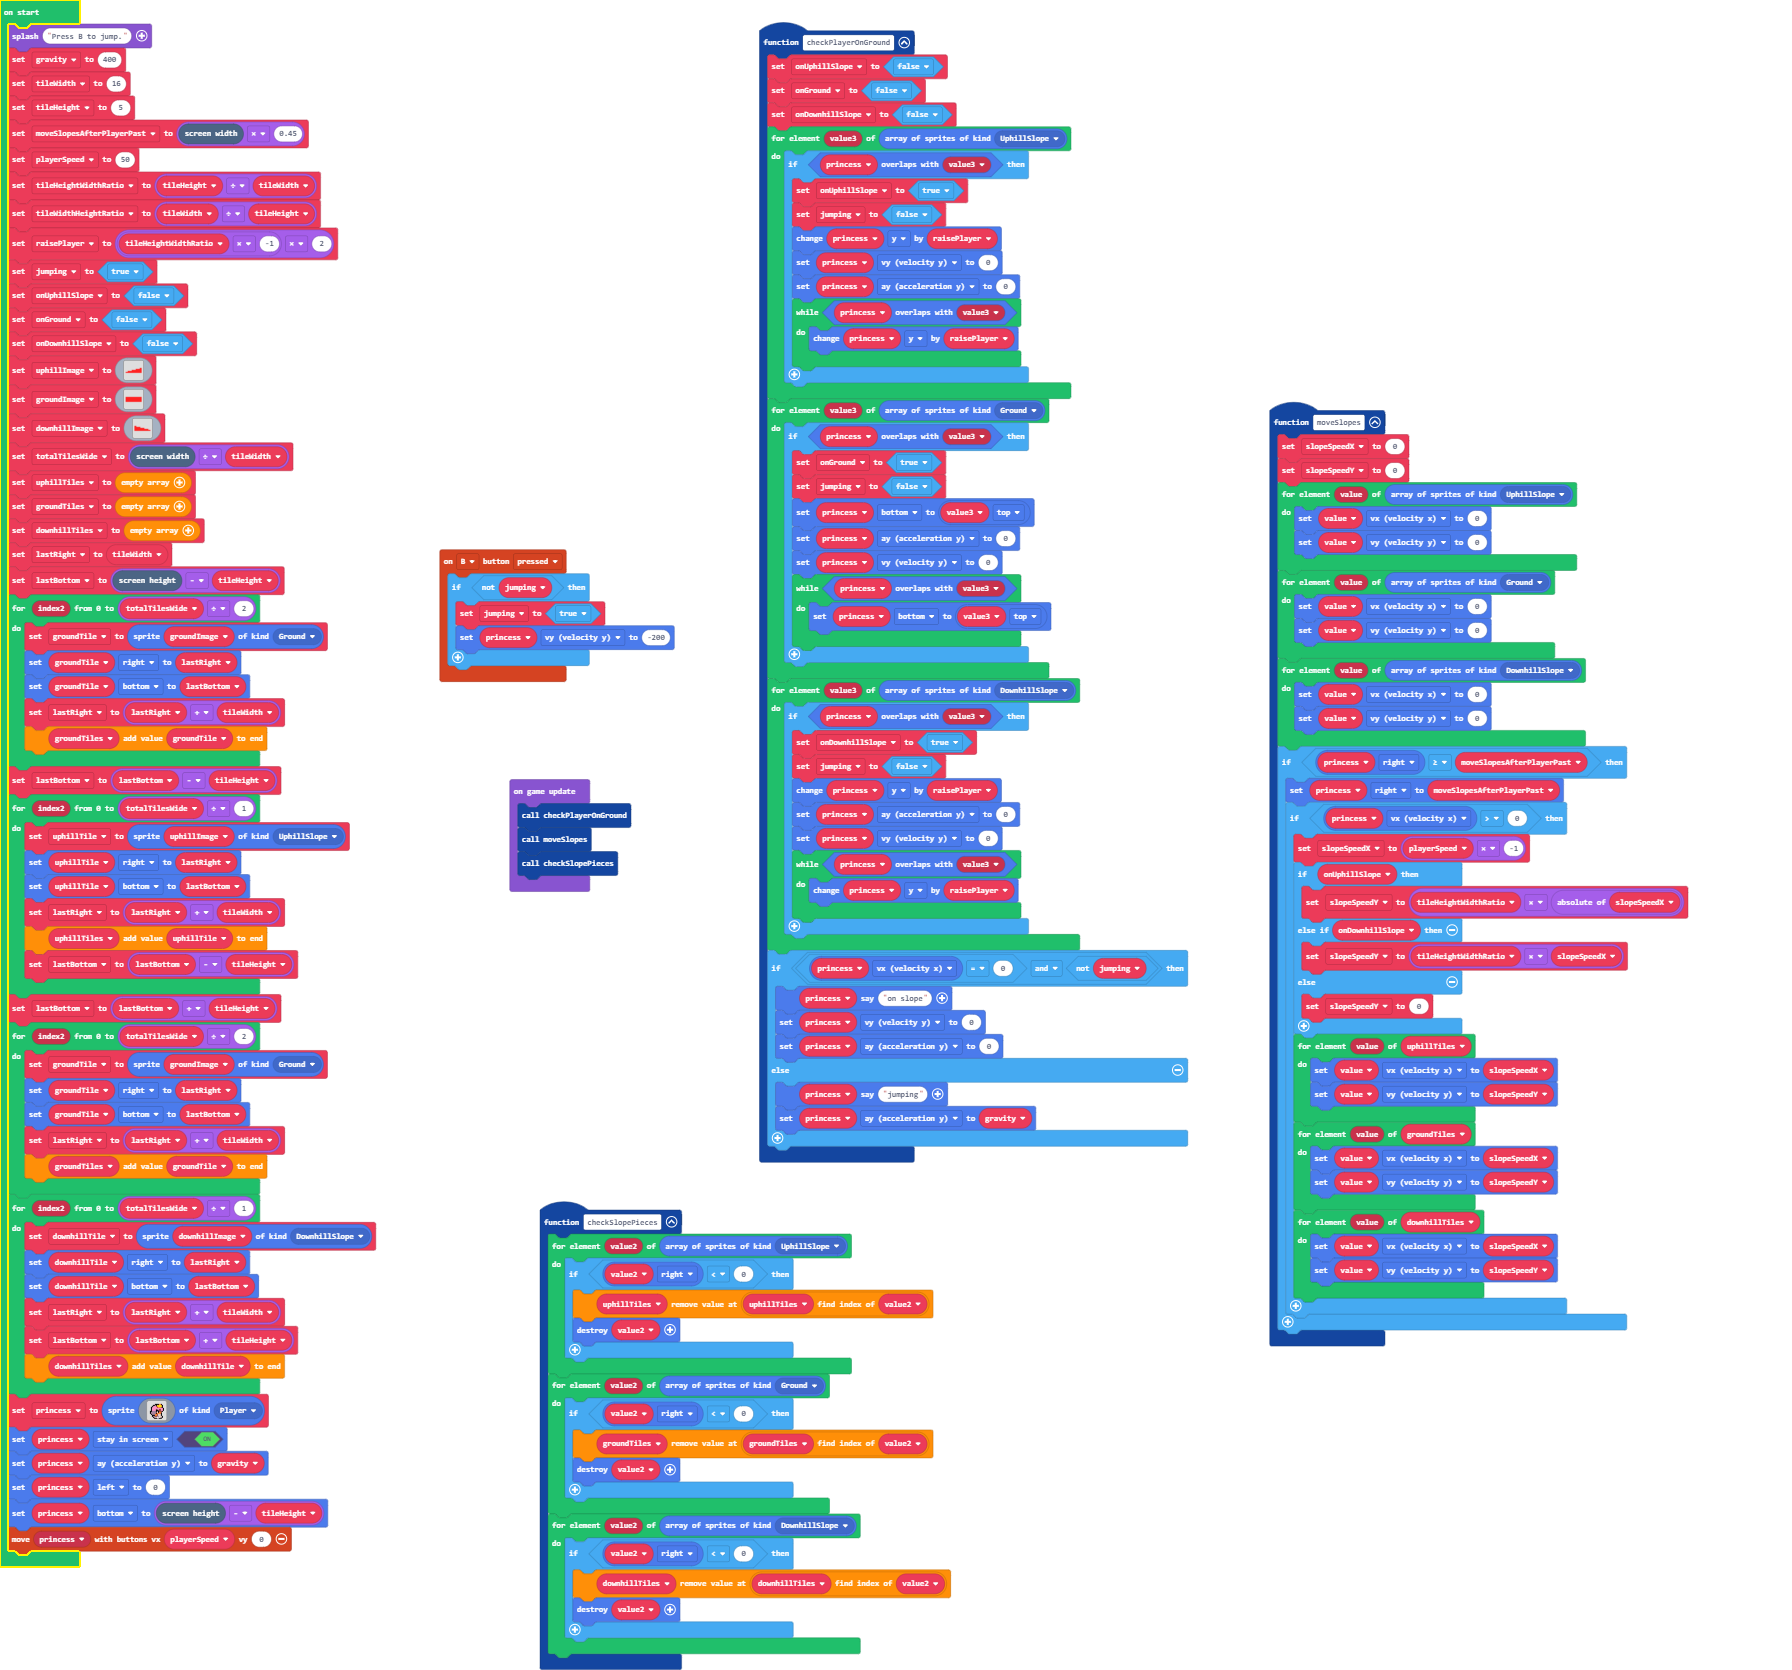
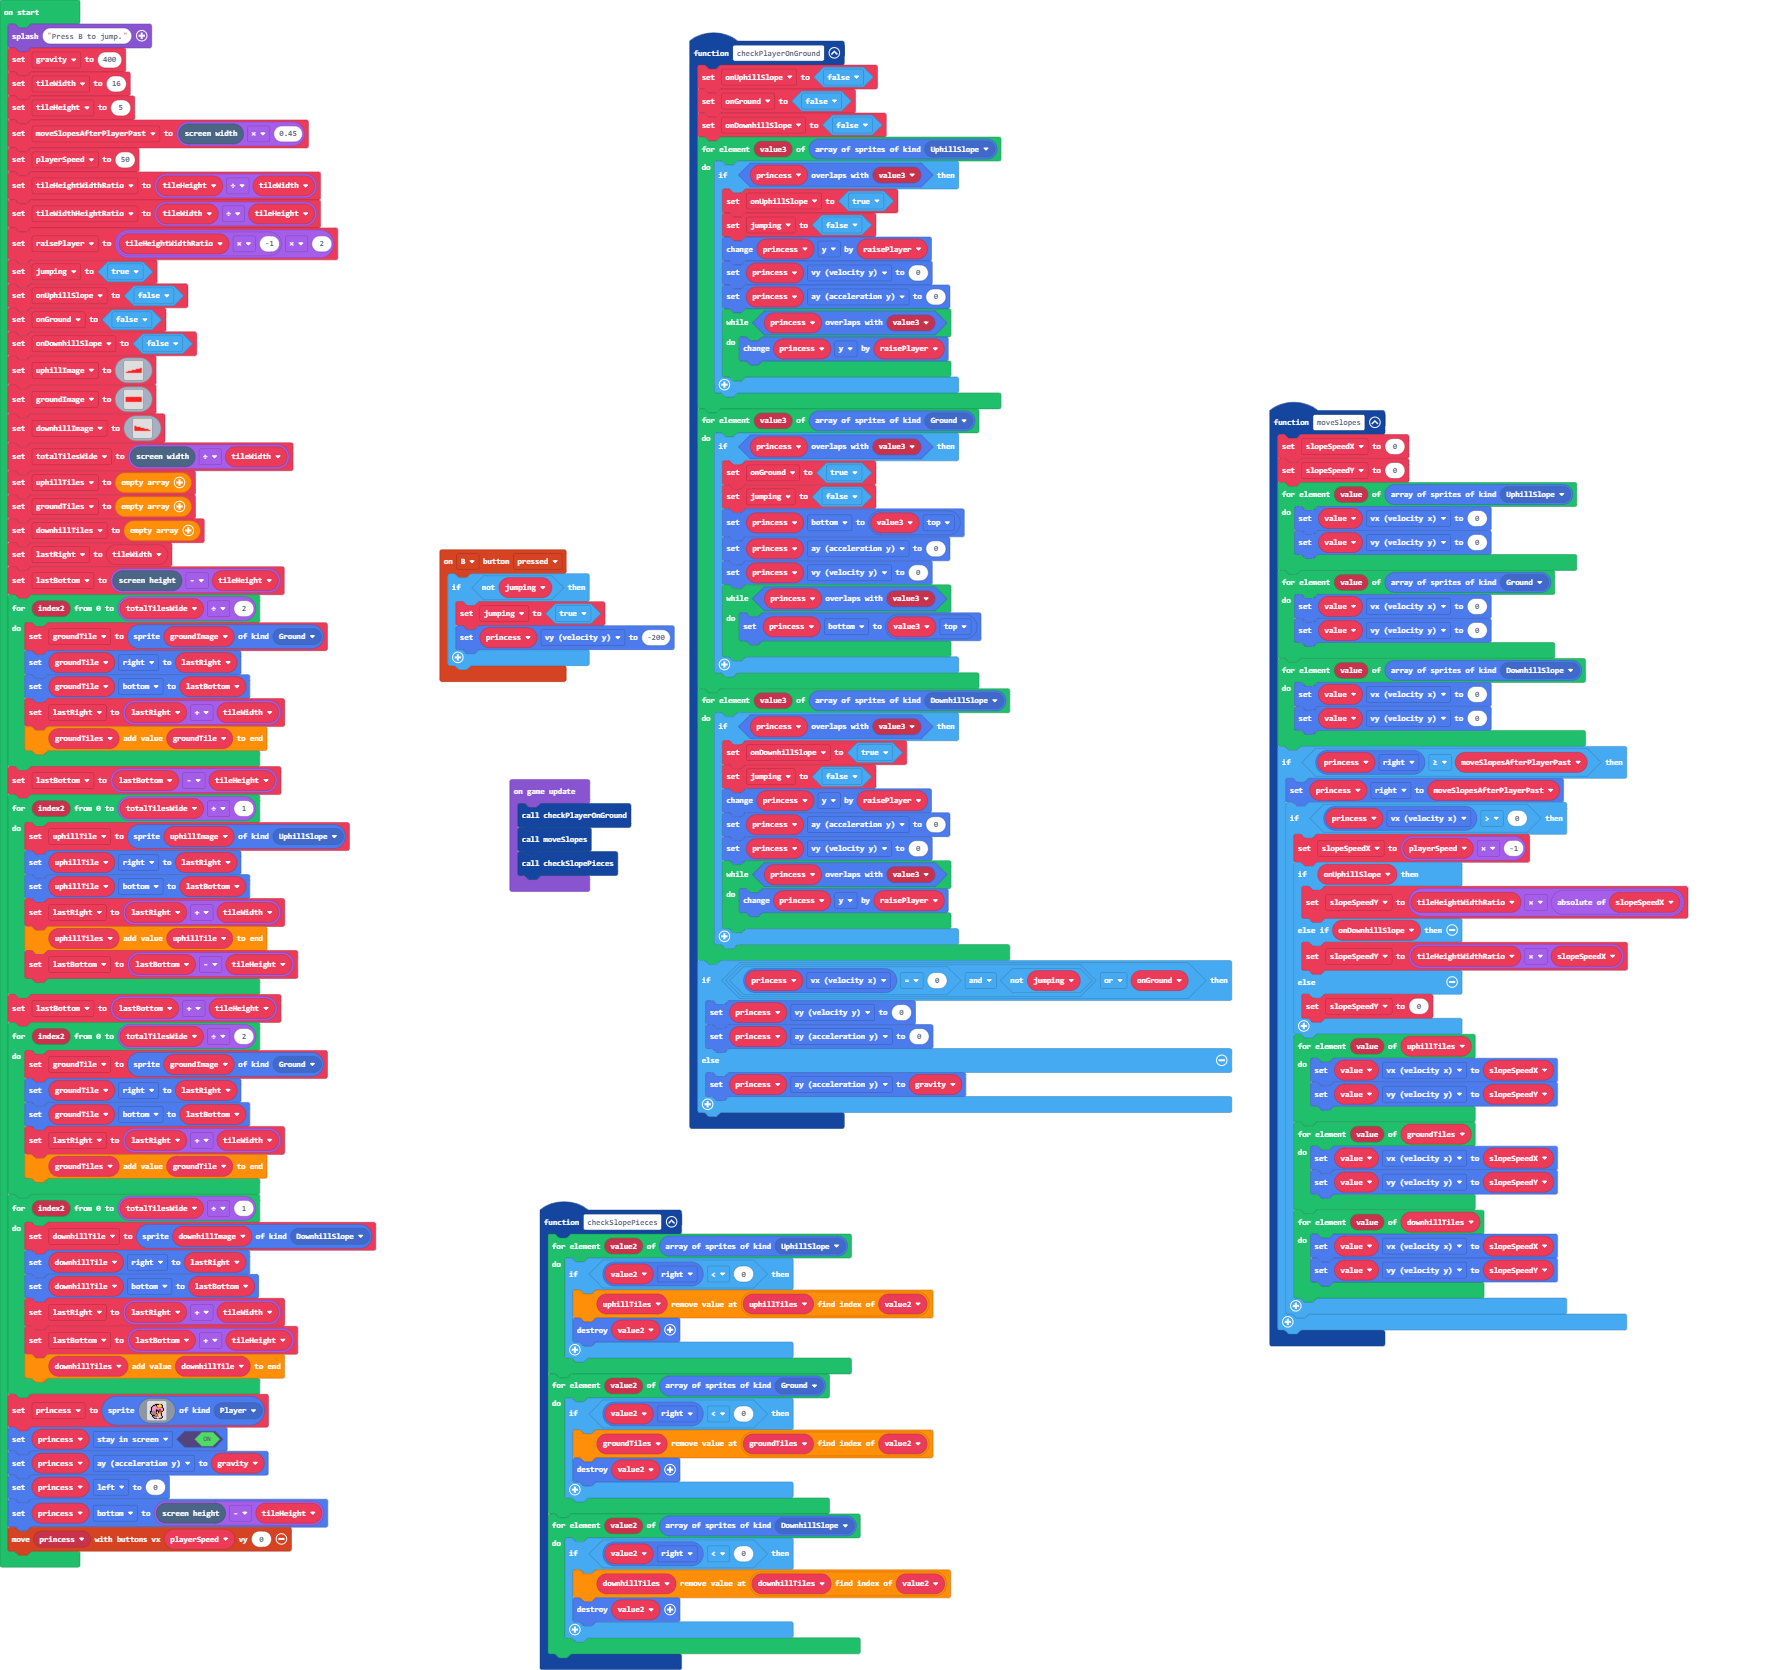
Removed sprite says

Changed region(s): [[0.375, 0.0, 0.6875, 0.7162]]

diff --git a/main.ts b/main.ts
@@ -110,12 +110,10 @@ function checkPlayerOnGround () {
             }
         }
     }
-    if (princess.vx == 0 && !(jumping)) {
-        princess.say("on slope")
+    if (princess.vx == 0 && !(jumping) || onGround) {
         princess.vy = 0
         princess.ay = 0
     } else {
-        princess.say("jumping")
         princess.ay = gravity
     }
 }
